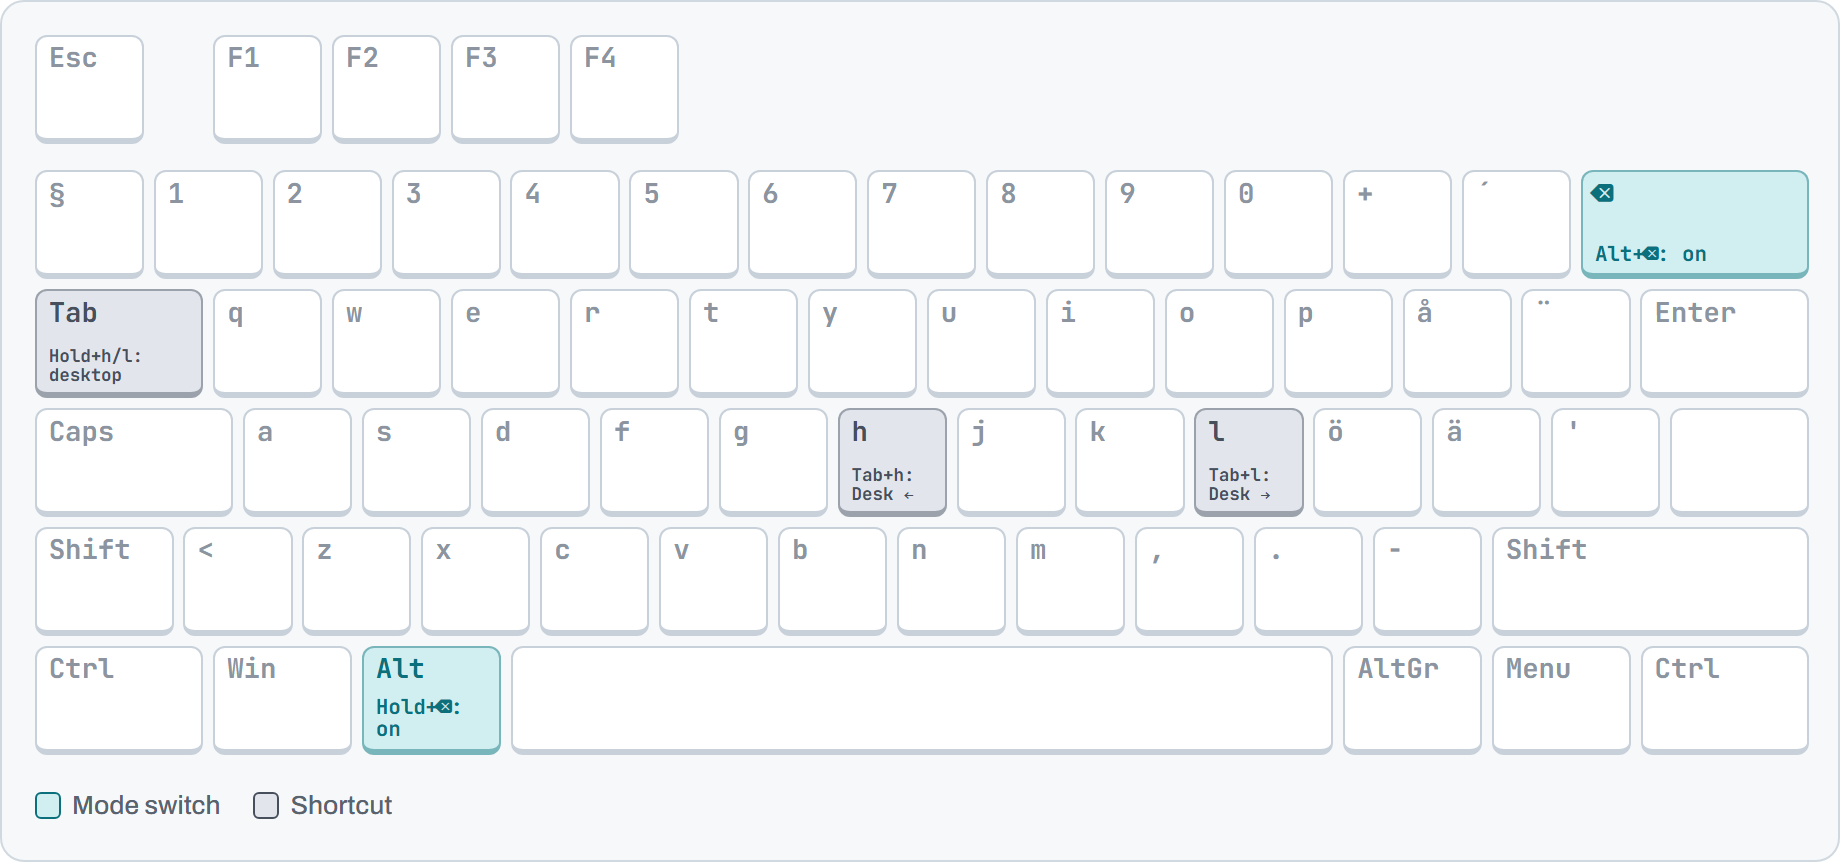
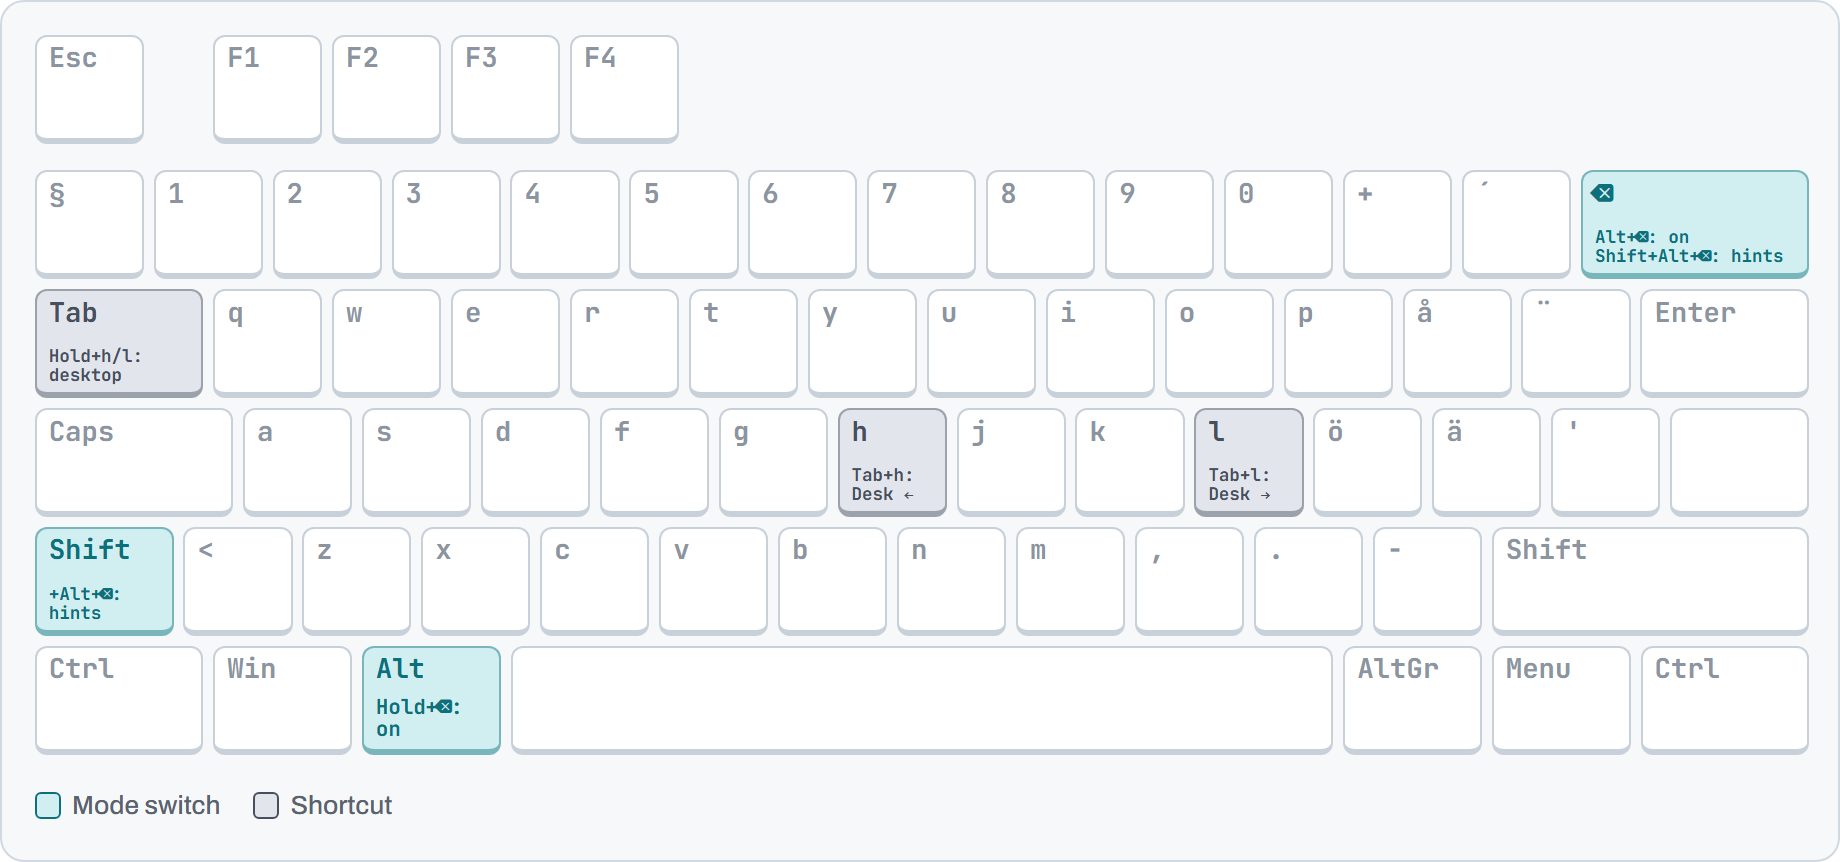
Start straight in hint mode with Shift+Alt+Backspace
Alt+Backspace still turns mousemaster on in normal mode, but only while
Shift is up. With Shift held it opens the hint grid directly.

Changed region(s): [[0.0, 0.6032, 0.0929, 0.7541], [0.8674, 0.2715, 0.9603, 0.3016]]

diff --git a/images/keyboard.html b/images/keyboard.html
@@ -100,7 +100,7 @@ const HINT2 = "q w e r u i o p a s d f j k l ö z x c v m , . -";
 
 // Mode id (used in the URL hash and image file names) -> key id -> [category, action label].
 const MODES = {
-  off: { lalt: ["mode", "Hold+⌫: on"], bksp: ["mode", "Alt+⌫: on"], tab: ["nav", "Hold+h/l: desktop"], h: ["nav", "Tab+h: Desk ←"], l: ["nav", "Tab+l: Desk →"] },
+  off: { lalt: ["mode", "Hold+⌫: on"], bksp: ["mode", "Alt+⌫: on Shift+Alt+⌫: hints"], lshift: ["mode", "+Alt+⌫: hints"], tab: ["nav", "Hold+h/l: desktop"], h: ["nav", "Tab+h: Desk ←"], l: ["nav", "Tab+l: Desk →"] },
   normal: { ...dirs(""),
     "ö": ["click", "Left"], menu: ["click", "Left"], "ä": ["click", "Right"], rshift: ["click", "Middle"], n: ["click", "Toggle L"], ".": ["exit", "Click, off"],
     ",": ["wheel", "Scroll ↑"], m: ["wheel", "Scroll ↓"], u: ["wheel", "Scroll ←"], o: ["wheel", "Scroll →"],

diff --git a/README.md b/README.md
@@ -15,7 +15,7 @@ cd C:\Apps\mousemaster
 
 | Turn on | Turn off | Turn off, and the key still reaches the app |
 |---|---|---|
-| Hold <kbd>Left Alt</kbd>, press <kbd>⌫</kbd> | <kbd>q</kbd> <kbd>p</kbd> <kbd>Esc</kbd> <kbd>Alt</kbd>+<kbd>⌫</kbd><br><kbd>.</kbd> clicks, then turns off | <kbd>Ctrl</kbd>+<kbd>F</kbd> <kbd>Ctrl</kbd>+<kbd>L</kbd> <kbd>Ctrl</kbd>+<kbd>E</kbd><br><kbd>F2</kbd> <kbd>F3</kbd> <kbd>/</kbd> |
+| Hold <kbd>Left Alt</kbd>, press <kbd>⌫</kbd><br>Add <kbd>Shift</kbd> to start in hints | <kbd>q</kbd> <kbd>p</kbd> <kbd>Esc</kbd> <kbd>Alt</kbd>+<kbd>⌫</kbd><br><kbd>.</kbd> clicks, then turns off | <kbd>Ctrl</kbd>+<kbd>F</kbd> <kbd>Ctrl</kbd>+<kbd>L</kbd> <kbd>Ctrl</kbd>+<kbd>E</kbd><br><kbd>F2</kbd> <kbd>F3</kbd> <kbd>/</kbd> |
 
 Indicator next to the pointer: 🔴 on · 🟡 scrolling · 🟢 button held.
 
@@ -78,7 +78,7 @@ Arrow keys do the same as <kbd>h</kbd> <kbd>j</kbd> <kbd>k</kbd> <kbd>l</kbd> fo
 | **Edge** | hold <kbd>Left Ctrl</kbd> | <kbd>h</kbd><kbd>j</kbd><kbd>k</kbd><kbd>l</kbd> jump to that screen edge | release Ctrl |
 | **Grid** | <kbd>g</kbd> | <kbd>h</kbd><kbd>j</kbd><kbd>k</kbd><kbd>l</kbd> keep that half, pointer follows its centre | <kbd>g</kbd> <kbd>Esc</kbd> back · <kbd>q</kbd> <kbd>p</kbd> off |
 | **Window** | hold <kbd>Left Shift</kbd>, press <kbd>g</kbd> | <kbd>h</kbd><kbd>j</kbd><kbd>k</kbd><kbd>l</kbd> jump to that window edge · <kbd>g</kbd> centre | release Shift |
-| **Hints** | <kbd>f</kbd> | type a label to jump there · hold <kbd>Shift</kbd> on the last letter for fine hints | pick a hint · <kbd>Esc</kbd> <kbd>⌫</kbd> |
+| **Hints** | <kbd>f</kbd>, or <kbd>Shift</kbd>+<kbd>Alt</kbd>+<kbd>⌫</kbd> from off | type a label to jump there · hold <kbd>Shift</kbd> on the last letter for fine hints | pick a hint · <kbd>Esc</kbd> <kbd>⌫</kbd> |
 | **Fine hints** | <kbd>Shift</kbd> + last hint letter | smaller grid around that spot, zoomed 5× | pick a hint · <kbd>Esc</kbd> back · <kbd>⌫</kbd> to hints |
 | **Screens** | <kbd>c</kbd> | <kbd>j</kbd> <kbd>k</kbd> <kbd>l</kbd> <kbd>ö</kbd> <kbd>a</kbd> <kbd>s</kbd> … jump to that monitor | <kbd>c</kbd> <kbd>Esc</kbd> <kbd>⌫</kbd> back · <kbd>q</kbd> <kbd>p</kbd> off |
 | **UI hints** | <kbd>Alt</kbd>+<kbd>f</kbd> | type a label on a button or link to jump to it | pick a hint · <kbd>Esc</kbd> <kbd>⌫</kbd> off |
